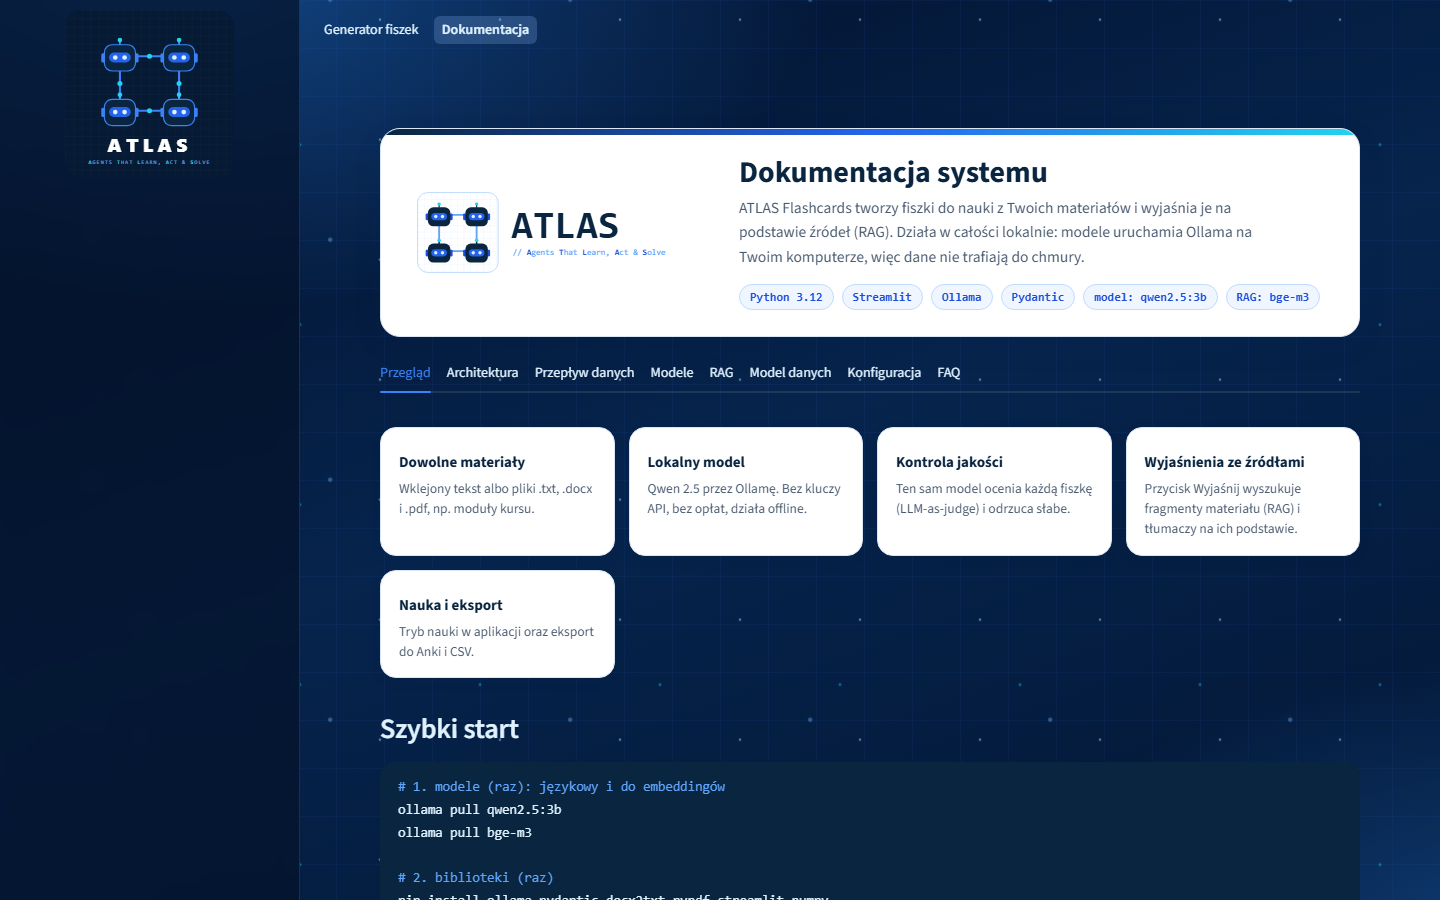
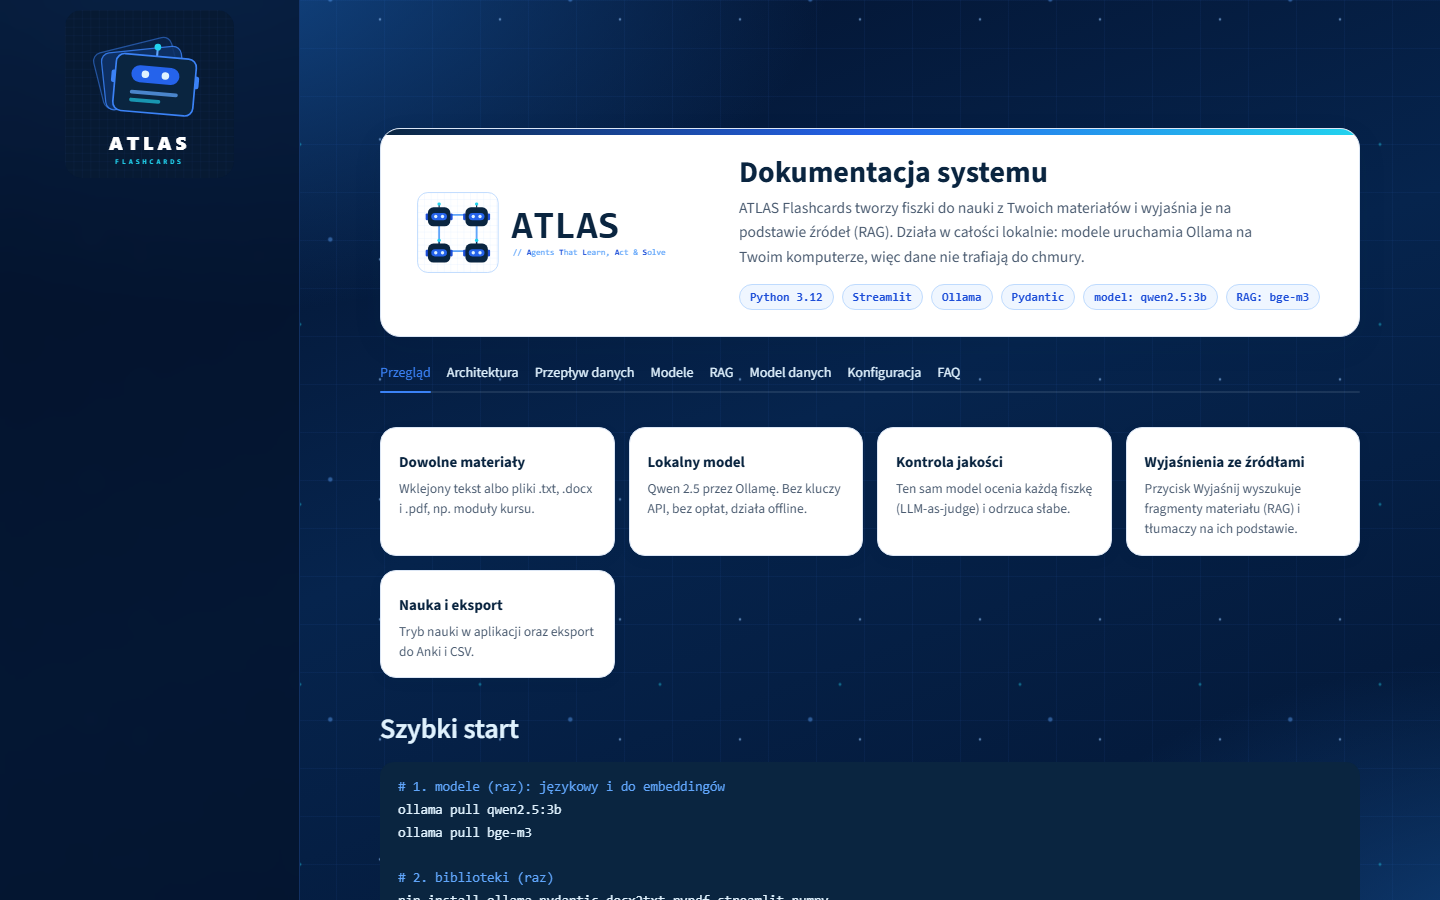
Flashcards

Changed region(s): [[0.0625, 0.0311, 0.1562, 0.1867], [0.2188, 0.0, 0.375, 0.0622]]

diff --git a/docs/flashcards.html b/docs/flashcards.html
@@ -5,7 +5,7 @@
   <meta name="viewport" content="width=device-width, initial-scale=1">
   <title>ATLAS Flashcards</title>
   <meta name="description" content="ATLAS Flashcards: fiszki do nauki generowane lokalnym modelem językowym przez Ollamę, z oceną jakości i wyjaśnieniami RAG.">
-  <link rel="icon" href="img/atlas_icon.svg" type="image/svg+xml">
+  <link rel="icon" href="img/flashcards_logo.svg" type="image/svg+xml">
   <link rel="stylesheet" href="style.css">
 </head>
 <body>
@@ -35,7 +35,7 @@
       <a class="btn" href="#start">Uruchom u siebie</a>
       <a class="btn ghost" href="https://github.com/juliuszlosinski/ATLAS/tree/main/Flashcards">Kod źródłowy</a>
     </div>
-    <img class="logo" src="img/atlas_icon.svg" alt="Logo ATLAS">
+    <img class="logo" src="img/flashcards_logo.svg" alt="Logo ATLAS Flashcards: stos fiszek z robotem">
   </header>
 
   <section>

diff --git a/docs/style.css b/docs/style.css
@@ -111,6 +111,8 @@ h3 { margin: 0 0 6px; font-size: 18px; }
 .project:hover { transform: translateY(-3px); border-color: rgba(96, 165, 250, .6); }
 .project img { width: 100%; border-radius: 10px; border: 1px solid var(--line); }
 .project .status { font-size: 12px; font-family: Consolas, monospace; color: #86EFAC; }
+.project .title-logo { display: flex; align-items: center; gap: 10px; }
+.project .title-logo img { width: 40px; height: 40px; border-radius: 8px; border: 0; }
 .project.soon { opacity: .6; border-style: dashed; }
 .project.soon .status { color: var(--muted); }
 

diff --git a/docs/index.html b/docs/index.html
@@ -43,7 +43,7 @@
       <a class="card project" href="flashcards.html">
         <img src="img/app_generator.png" alt="Zrzut ekranu aplikacji ATLAS Flashcards">
         <span class="status">● gotowy</span>
-        <h3>ATLAS Flashcards</h3>
+        <h3 class="title-logo"><img src="img/flashcards_logo.svg" alt="">ATLAS Flashcards</h3>
         <p>Fiszki do nauki z własnych materiałów, generowane lokalnym modelem Qwen 2.5 przez Ollamę.
           Ocena jakości przez LLM-as-judge, wyjaśnienia z RAG, eksport do Anki.</p>
       </a>

diff --git a/Flashcards/app.py b/Flashcards/app.py
@@ -12,7 +12,7 @@ import theme
 
 ASSETS = Path(__file__).parent / "assets"
 
-st.set_page_config(page_title="ATLAS Flashcards", page_icon=str(ASSETS / "atlas_icon.svg"), layout="wide")
+st.set_page_config(page_title="ATLAS Flashcards", page_icon=str(ASSETS / "flashcards_logo.svg"), layout="wide")
 theme.apply()
 
 # Navigation in the top bar, so the logo can sit at the very top of the sidebar
@@ -23,6 +23,6 @@ navigation = st.navigation([
 
 # Middle column of three keeps the logo centered and about 3/4 of the sidebar wide
 _, logo_col, _ = st.sidebar.columns([1, 6, 1])
-logo_col.image(str(ASSETS / "atlas_icon.svg"), width="stretch")
+logo_col.image(str(ASSETS / "flashcards_logo.svg"), width="stretch")
 
 navigation.run()

diff --git a/Flashcards/README.md b/Flashcards/README.md
@@ -1,3 +1,5 @@
+<img src="assets/flashcards_logo.svg" alt="ATLAS Flashcards" width="160" align="right">
+
 # ATLAS: Flashcards
 
 Fiszki do nauki z Twoich materiałów, generowane lokalnym modelem językowym przez [Ollamę](https://ollama.com).
